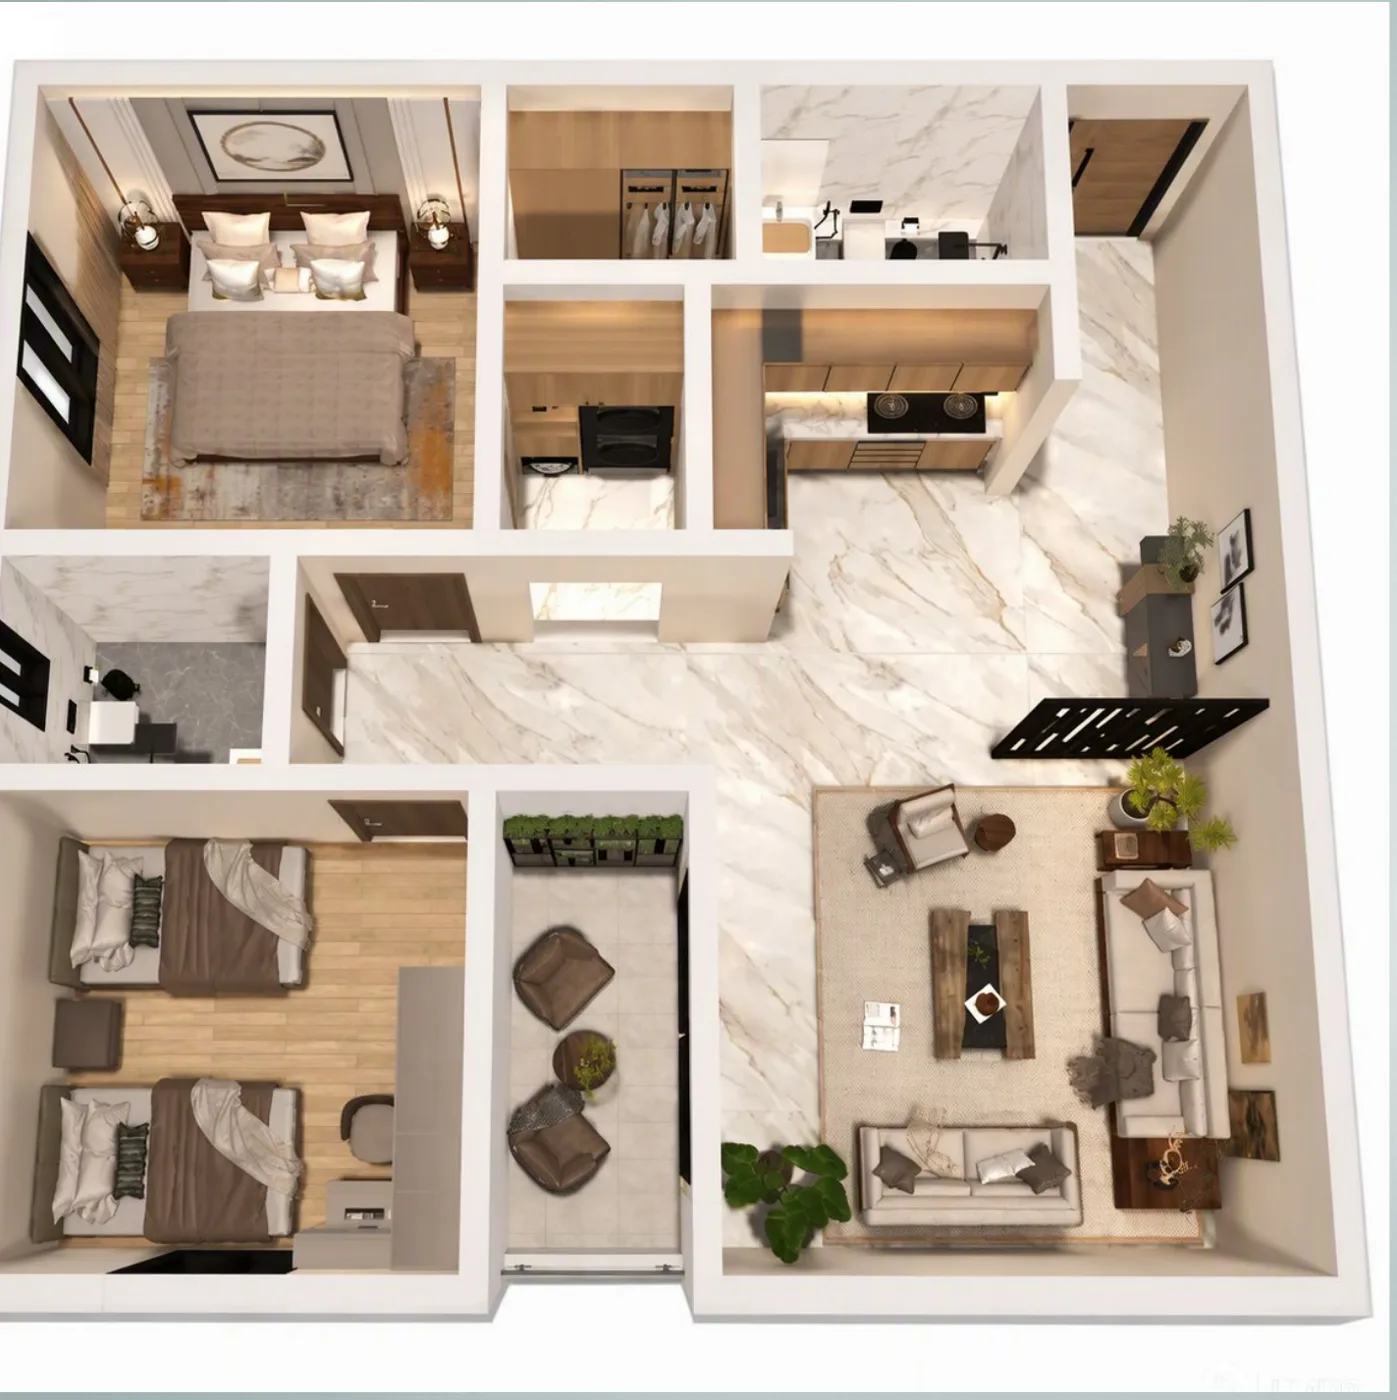
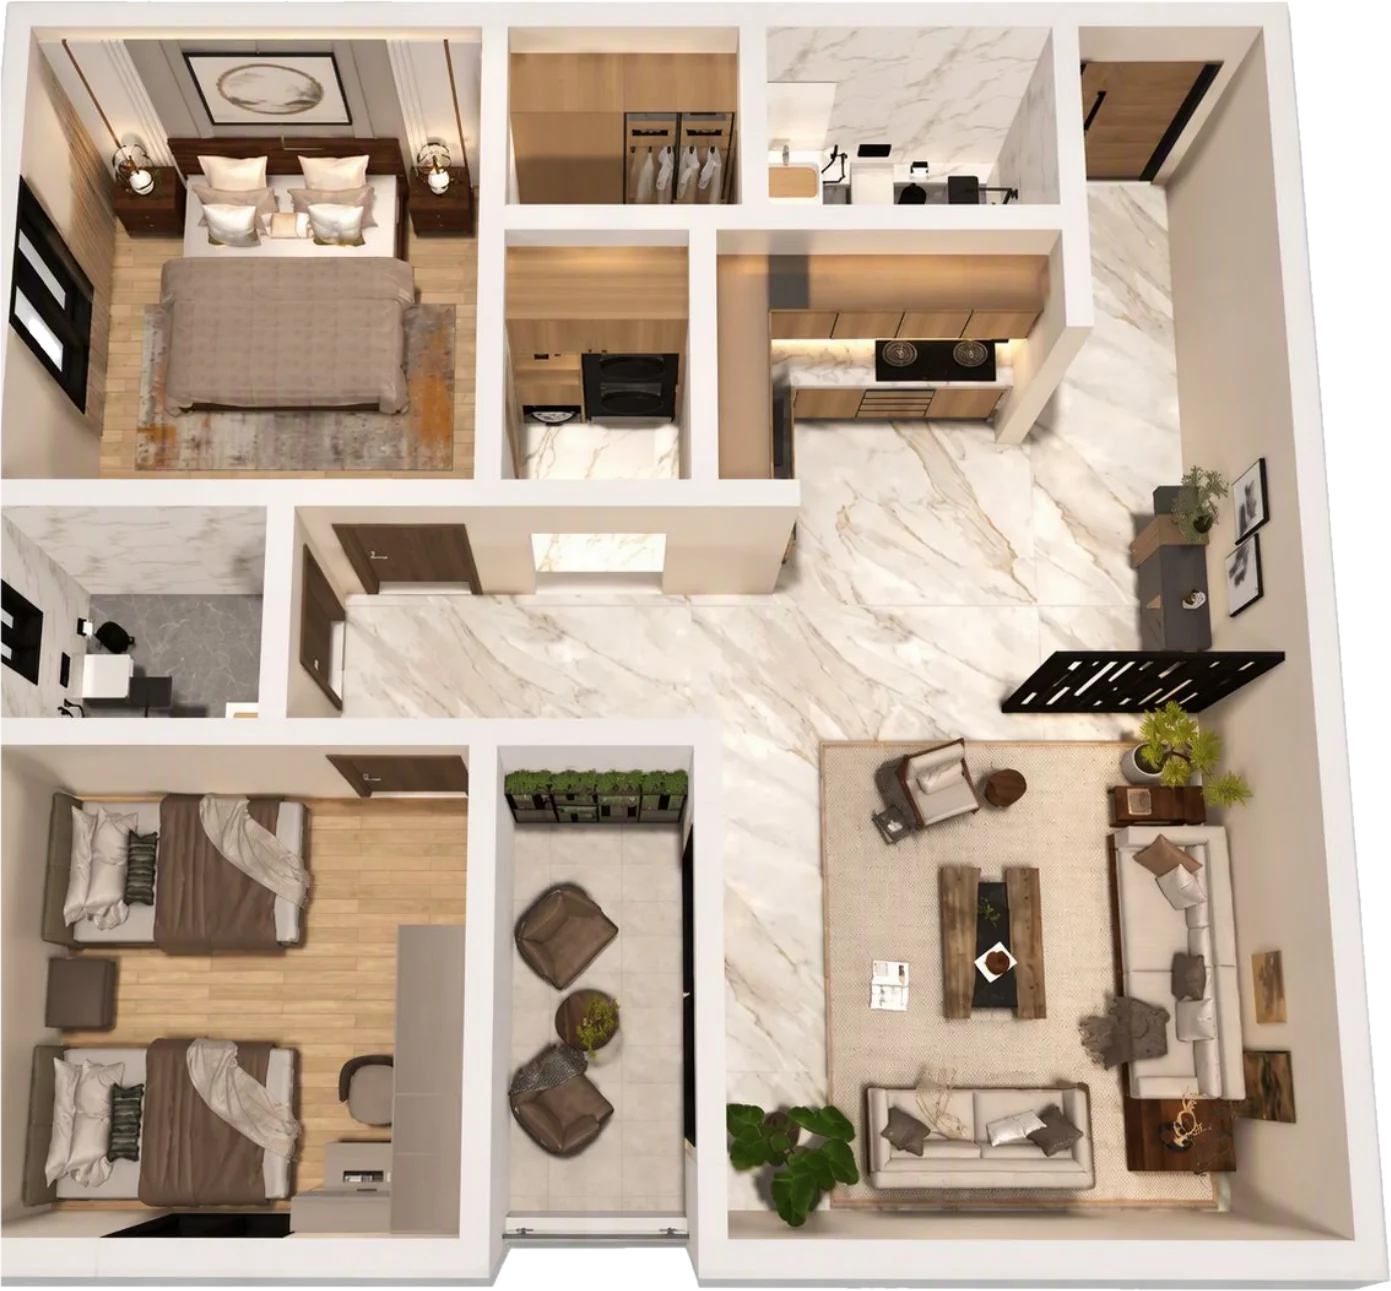
Cut out 3D unit renders and drop their white frame
Model A/B/C renders now have transparent backgrounds that follow the
plan's own outline (stray app logo under model B removed). The white
card around the images is replaced by a soft drop shadow.

Claude-Session: https://claude.ai/code/session_01HJzcQjLGeF9THJCMuTkdKR

diff --git a/assets/css/style.css b/assets/css/style.css
@@ -156,8 +156,8 @@ h2 { font-size: var(--fs-title); }
 
 /* ---------- Models ---------- */
 .model-panel { display: grid; grid-template-columns: 1.4fr 1fr; gap: 48px; align-items: center; background: var(--cream); border-radius: 28px; padding: clamp(20px, 4vw, 48px); }
-.model-panel .model-img { background: #fff; border-radius: var(--radius); padding: 12px; box-shadow: var(--shadow); cursor: zoom-in; }
-.model-panel .model-img img { border-radius: 12px; width: 100%; }
+.model-panel .model-img { background: none; padding: 0; cursor: zoom-in; }
+.model-panel .model-img img { width: 100%; height: auto; filter: drop-shadow(0 18px 24px rgba(31,74,66,.18)); }
 .model-badge { display: inline-block; background: var(--ink); color: var(--gold-light); font-weight: 700; padding: .2em .9em; border-radius: 8px; margin-bottom: 12px; }
 .model-area { display: flex; gap: 28px; margin: 8px 0 24px; flex-wrap: wrap; }
 .model-area div { display: flex; flex-direction: column; }
@@ -276,8 +276,8 @@ h2 { font-size: var(--fs-title); }
 .modal-card { position: relative; background: var(--paper); border-radius: 24px; width: min(760px, 100%); max-height: 90vh; overflow: auto; animation: pop .3s ease; }
 @keyframes pop { from { opacity: 0; transform: scale(.96) translateY(12px); } to { opacity: 1; transform: none; } }
 .modal-close { position: absolute; top: 12px; left: 12px; z-index: 2; width: 40px; height: 40px; border-radius: 50%; border: 0; background: rgba(255,255,255,.92); color: var(--ink); font-size: 1.6rem; line-height: 1; box-shadow: 0 2px 8px rgba(0,0,0,.15); }
-.unit-modal-img { background: var(--cream); padding: 16px; }
-.unit-modal-img img { border-radius: 12px; margin-inline: auto; max-height: 340px; }
+.unit-modal-img { background: var(--cream); padding: 24px 24px 8px; }
+.unit-modal-img img { margin-inline: auto; max-height: 340px; filter: drop-shadow(0 12px 18px rgba(31,74,66,.18)); }
 .unit-modal-body { padding: 24px 28px 28px; }
 .unit-modal-body h3 { font-size: 1.5rem; margin-bottom: .2em; }
 .status-pill { display: inline-flex; align-items: center; gap: 6px; font-size: .85rem; font-weight: 600; padding: .2em .8em; border-radius: 999px; background: var(--cream); }
